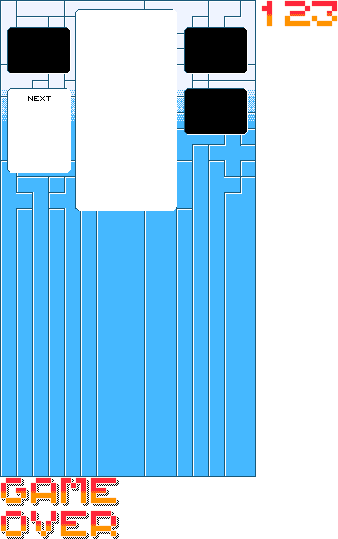
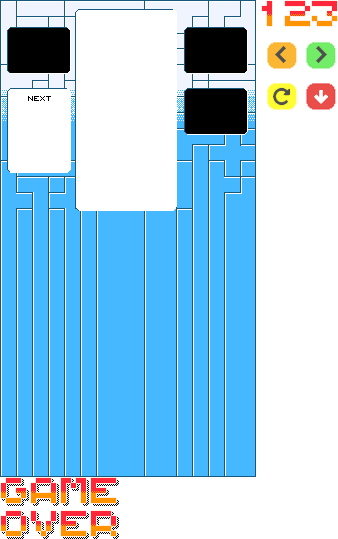
Game should have button controls (left, right, rotate, drop)

Changed region(s): [[0.7692, 0.0594, 1.0, 0.2078]]

diff --git a/package/release/assets/app/ui/screens/game/launch/static/js/game.js b/package/release/assets/app/ui/screens/game/launch/static/js/game.js
@@ -37,17 +37,17 @@ Game.Main = function (game) {
         topScoreValue: null,
         lines:         null,
         linesValue:    null
-    }
+    };
 
     this.gameover = null;
 };
 
 
-     // variables used to detect and manage swipes
-     var startX;
-     var startY;
-     var endX;
-     var endY;
+// variables used to detect and manage swipes
+var startX;
+var startY;
+var endX;
+var endY;
 
 Game.Main.prototype = {
     init: function() {
@@ -59,31 +59,10 @@ Game.Main.prototype = {
     },
     preload: function () {
         this.game.time.advancedTiming = true;
-        //setting loading screen background
         this.game.stage.backgroundColor = '#000';
-        // this.load.tilemap('map', 'static/map.json', null, Phaser.Tilemap.TILED_JSON);
-        // this.load.image('tiles', 'static/tileset.png');
-
-        //scaling options
-        //this.scale.scaleMode = Phaser.ScaleManager.SHOW_ALL;
-
-        //have the game centered horizontally
-        // this.scale.pageAlignHorizontally = true;
-        // this.scale.pageAlignVertically = true;
-
-        //screen size will be set automatically
-        //this.scale.setScreenSize(true);
     },
     create: function () {
         this.goFullScreen();
-
-        // Create the map
-        // this.game.physics.startSystem(Phaser.Physics.ARCADE);
-        // this.map = this.add.tilemap('map');
-        // this.map.addTilesetImage('Wall', 'tiles');
-
-        // this.layer = this.map.createLayer('Tile Layer 1');
-        // this.layer.resizeWorld();
 
         // hide the real canvas and setup the scaled up one that will be visible
         // http://www.photonstorm.com/phaser/pixel-perfect-scaling-a-phaser-game
@@ -128,11 +107,10 @@ Game.Main.prototype = {
         this.background = this.add.image(0, 0, this.add.bitmapData(game.canvas.width / PLASMA_CELL_SIZE * 2, game.canvas.height / PLASMA_CELL_SIZE * 2));
         this.plasmaBackground = new Game.PlasmaBackground(this.background.key);
 
-        //this.miniBackground     = this.add.image(7, 88, this.make.bitmapData(63, 84));
-
         // cover background image
         this.backgroundCover = this.add.image(0, 0, Game.assets.images.backgroundCoverData);
         this.backgroundCover.alpha = 0.8;
+
 
         // image to display the next pentomino that will fall
         this.nextPentomino = this.add.image(NEXT_PENTOMINO_X, NEXT_PENTOMINO_Y, this.add.bitmapData(NEXT_PENTOMINO_WIDTH, NEXT_PENTOMINO_HEIGHT));
@@ -209,23 +187,55 @@ Game.Main.prototype = {
         this.overlayGame.input.onDown.add(this.beginSwipe, this);
 
         this.plasmaBackground.update();
+
+
+        // Controls
+
+        this.leftControl = this.add.image(CONTROLS.leftArrow.x, CONTROLS.leftArrow.y, this.add.bitmapData(CONTROLS.leftArrow.rect.width, CONTROLS.leftArrow.rect.height));
+        this.leftControl.key.copyRect('images', CONTROLS.leftArrow.rect, 0, 0);
+        this.leftControl.anchor.setTo(0.5);
+        this.leftControl.alpha = 1;
+        this.leftControl.inputEnabled = true;
+        this.leftControl.events.onInputDown.add(this.grid.movePentomino.bind(this.grid, -1), this);
+        this.rightControl = this.add.image(CONTROLS.rightArrow.x, CONTROLS.rightArrow.y, this.add.bitmapData(CONTROLS.rightArrow.rect.width, CONTROLS.rightArrow.rect.height));
+        this.rightControl.key.copyRect('images', CONTROLS.rightArrow.rect, 0, 0);
+        this.rightControl.anchor.setTo(0.5);
+        this.rightControl.alpha = 1;
+        this.rightControl.inputEnabled = true;
+        this.rightControl.events.onInputDown.add(this.grid.movePentomino.bind(this.grid, 1), this);
+        this.rotateControl = this.add.image(CONTROLS.rotateArrow.x, CONTROLS.rotateArrow.y, this.add.bitmapData(CONTROLS.rotateArrow.rect.width, CONTROLS.rotateArrow.rect.height));
+        this.rotateControl.key.copyRect('images', CONTROLS.rotateArrow.rect, 0, 0);
+        this.rotateControl.anchor.setTo(0.5);
+        this.rotateControl.alpha = 1;
+        this.rotateControl.inputEnabled = true;
+        this.rotateControl.events.onInputDown.add(this.grid.rotatePentomino.bind(this.grid), this);
+        this.dropControl = this.add.image(0, 0, this.add.bitmapData(CONTROLS.dropArrow.rect.width, CONTROLS.dropArrow.rect.height));
+        this.dropControl.anchor.setTo(0.5);
+        this.dropControl.alpha = 1;
+        this.dropControl.x = CONTROLS.dropArrow.x;
+        this.dropControl.y = CONTROLS.dropArrow.y;
+        this.dropControl.key.copyRect('images', CONTROLS.dropArrow.rect, 0, 0);
+        this.dropControl.inputEnabled = true;
+        this.dropControl.events.onInputDown.add(function () {
+            if (Game.status == STATUS_GAMEOVER || Game.status == STATUS_READY || Game.status == STATUS_WAITING) {
+                return;
+            }
+
+            Game.status = STATUS_FORCE_FALL, this.speedUp = this.speed * 2;
+        }, this);
         //setInterval(function() { this.plasmaBackground.update(); }.bind(this), 200);
     },
     update: function () {
-
-        // this.plasmaBackground.update();
         // this.plasmaBackground.update();
 
-        //this.miniBackground.key.copyRect(this.background.key, new Phaser.Rectangle(0, 0, 63, 84), 0, 0)
-
-                //  Just renders out the pointer data when you touch the canvas
-                // game.debug.pointer(this.overlayGame.input.mousePointer);
-                // game.debug.pointer(this.overlayGame.input.pointer1);
-                // game.debug.pointer(this.overlayGame.input.pointer2);
-                // game.debug.pointer(this.overlayGame.input.pointer3);
-                // game.debug.pointer(this.overlayGame.input.pointer4);
-                // game.debug.pointer(this.overlayGame.input.pointer5);
-                // game.debug.pointer(this.overlayGame.input.pointer6);
+        //  Just renders out the pointer data when you touch the canvas
+        // game.debug.pointer(this.overlayGame.input.mousePointer);
+        // game.debug.pointer(this.overlayGame.input.pointer1);
+        // game.debug.pointer(this.overlayGame.input.pointer2);
+        // game.debug.pointer(this.overlayGame.input.pointer3);
+        // game.debug.pointer(this.overlayGame.input.pointer4);
+        // game.debug.pointer(this.overlayGame.input.pointer5);
+        // game.debug.pointer(this.overlayGame.input.pointer6);
 
         switch (Game.status) {
             case STATUS_COUNTDOWN:
@@ -296,8 +306,8 @@ Game.Main.prototype = {
         // this.game.debug.text(this.game.time.fps || '--', 2, 14, "#00ff00");
         // this.game.debug.text(this.score || '--', 20, 14, "#00ff00");
 
-            game.canvas.style['width'] = '100%';
-            game.canvas.style['height'] = '100%';
+            // game.canvas.style['width'] = '100%';
+            // game.canvas.style['height'] = '100%';
         // copy the canvas content to the scaled-up version
         if (RETRO_LOOK) pixel.context.drawImage(game.canvas, 0, 0, game.width, game.height, 0, 0, pixel.width, pixel.height);
     },
@@ -365,10 +375,10 @@ Game.Main.prototype = {
     },
     // function to scale up the game to full screen
     goFullScreen: function() {
-        // this.game.scale.pageAlignHorizontally = true;
-        // this.game.scale.pageAlignVertically = true;
-        // this.game.scale.scaleMode = Phaser.ScaleManager.SHOW_ALL;
-        // //this.game.scale.setScreenSize(true);
+        this.game.scale.pageAlignHorizontally = true;
+        this.game.scale.pageAlignVertically = true;
+        this.game.scale.scaleMode = Phaser.ScaleManager.EXACT_FIT;
+        //this.game.scale.setScreenSize(true);
     },
     // when the player begins to swipe we only save mouse/finger coordinates, remove the touch/click
     // input listener and add a new listener to be fired when the mouse/finger has been released,

diff --git a/package/release/assets/app/ui/screens/game/launch/static/js/setup.js b/package/release/assets/app/ui/screens/game/launch/static/js/setup.js
@@ -1,5 +1,5 @@
 var GAME_W               = 256,
-    GAME_H               = 523,
+    GAME_H               = 473,
 
     DEBUG_MODE           = false,
 
@@ -87,6 +87,13 @@ var GAME_W               = 256,
         height: 62,
         rect:   new Phaser.Rectangle(0, 477, 119, 62),
         scale:  2
+    },
+
+    CONTROLS = {
+        leftArrow: { x: 200, y: 160, rect: new Phaser.Rectangle(265, 40, 34, 34)},
+        rightArrow: { x: 230, y: 160, rect: new Phaser.Rectangle(304, 40, 34, 34)},
+        rotateArrow: { x: 200, y: 188, rect: new Phaser.Rectangle(265, 80, 34, 34)},
+        dropArrow: { x: 230, y: 188, rect: new Phaser.Rectangle(304, 80, 34, 34)}
     },
 
     RETRO_LOOK = false,
